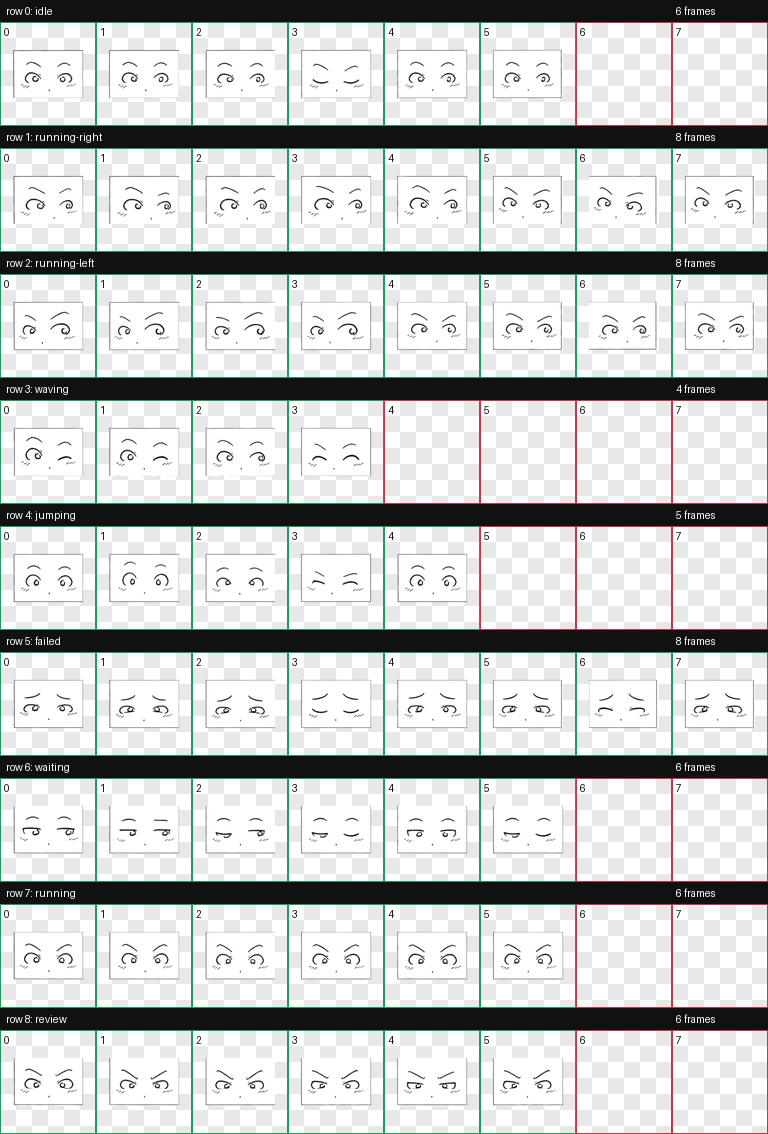
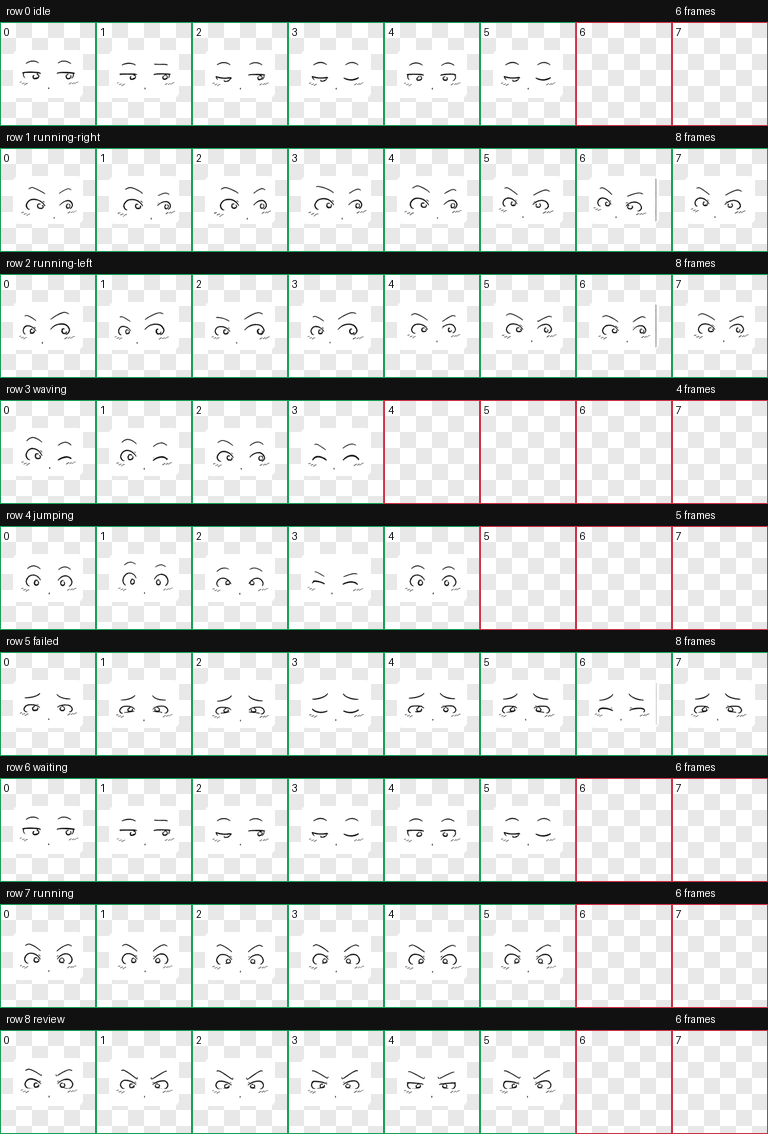
Update puchi dv pet assets

diff --git a/pet-runs/puchi-dv/build_puchi_dv_pet.py b/pet-runs/puchi-dv/build_puchi_dv_pet.py
@@ -1,6 +1,8 @@
 from pathlib import Path
-from PIL import Image
+from PIL import Image, ImageDraw
 import json
+import subprocess
+import sys
 
 
 SRC = Path("/Users/hideki/Documents/kiro/webp/puchi-dv.png")
@@ -8,26 +10,31 @@ RUN_DIR = Path("/Users/hideki/Documents/develop/codex-tools/pet-runs/puchi-dv")
 FINAL_DIR = RUN_DIR / "final"
 QA_DIR = RUN_DIR / "qa"
 PET_DIR = Path.home() / ".codex" / "pets" / "puchi-dv"
+VALIDATOR = Path.home() / ".codex" / "skills" / "hatch-pet" / "scripts" / "validate_atlas.py"
 
 CELL_W, CELL_H = 192, 208
 ATLAS_W, ATLAS_H = CELL_W * 8, CELL_H * 9
 
-# Source sheet geometry. The source is a contact-sheet-style drawing; the
-# rectangular frame itself is the pet body.
+# Source sheet geometry. The source is a contact-sheet-style drawing. The
+# extracted expression panel becomes the pet body.
 FRAME_W, FRAME_H = 140, 96
+CORNER_RADIUS = 11
 XS = [169, 314, 459, 606, 751, 897, 1041, 1185]
 YS = [42, 165, 289, 411, 534, 656, 779, 900, 1023]
 
 ROWS = [
-    ("idle", [0, 1, 2, 3, 4, 5]),
-    ("running-right", [0, 1, 2, 3, 4, 5, 6, 5]),
-    ("running-left", [0, 1, 2, 3, 4, 5, 6, 5]),
-    ("waving", [0, 1, 2, 3]),
-    ("jumping", [0, 1, 2, 3, 0]),
-    ("failed", [0, 1, 2, 3, 4, 5, 6, 5]),
-    ("waiting", [0, 1, 2, 3, 4, 3]),
-    ("running", [0, 1, 2, 3, 4, 3]),
-    ("review", [0, 1, 2, 3, 4, 3]),
+    # Idle intentionally reuses the waiting row for a slightly bored look.
+    ("idle", 6, [0, 1, 2, 3, 4, 3]),
+    ("running-right", 1, [0, 1, 2, 3, 4, 5, 6, 5]),
+    ("running-left", 2, [0, 1, 2, 3, 4, 5, 6, 5]),
+    ("waving", 3, [0, 1, 2, 3]),
+    # The app's hover uses the jumping row; keep the surprised hover look in
+    # the five contract-valid cells and leave the remaining cells transparent.
+    ("jumping", 4, [0, 1, 2, 3, 0]),
+    ("failed", 5, [0, 1, 2, 3, 4, 5, 6, 5]),
+    ("waiting", 6, [0, 1, 2, 3, 4, 3]),
+    ("running", 7, [0, 1, 2, 3, 4, 3]),
+    ("review", 8, [0, 1, 2, 3, 4, 3]),
 ]
 
 
@@ -37,17 +44,107 @@ def is_checker_or_near_white(r, g, b):
     return r >= 225 and g >= 225 and b >= 225 and max(r, g, b) - min(r, g, b) <= 8
 
 
+def is_expression_line(r, g, b):
+    # Preserve the original hand-drawn line tone, including soft gray strokes.
+    return max(r, g, b) < 225
+
+
+def is_old_frame_border(xx, yy):
+    return xx <= 4 or yy <= 4 or xx >= FRAME_W - 5 or yy >= FRAME_H - 5
+
+
 def clean_frame(src, x, y):
-    crop = src.crop((x, y, x + FRAME_W, y + FRAME_H)).convert("RGBA")
-    px = crop.load()
+    crop = src.crop((x, y, x + FRAME_W, y + FRAME_H)).convert("RGB")
+    frame = Image.new("RGBA", (FRAME_W, FRAME_H), (0, 0, 0, 0))
+    mask = Image.new("L", (FRAME_W, FRAME_H), 0)
+    mask_draw = ImageDraw.Draw(mask)
+    mask_draw.rounded_rectangle(
+        (0, 0, FRAME_W - 1, FRAME_H - 1),
+        radius=CORNER_RADIUS,
+        fill=255,
+    )
+
+    # White rounded rectangle body, with no black outline.
+    body = Image.new("RGBA", (FRAME_W, FRAME_H), (255, 255, 255, 255))
+    frame.alpha_composite(Image.composite(body, frame, mask))
+
+    src_px = crop.load()
+    out_px = frame.load()
+    mask_px = mask.load()
     for yy in range(FRAME_H):
         for xx in range(FRAME_W):
-            r, g, b, a = px[xx, yy]
-            if is_checker_or_near_white(r, g, b):
-                px[xx, yy] = (255, 255, 255, 255)
-            else:
-                px[xx, yy] = (r, g, b, 255)
-    return crop
+            if not mask_px[xx, yy] or is_old_frame_border(xx, yy):
+                continue
+            r, g, b = src_px[xx, yy]
+            if is_expression_line(r, g, b) and not is_checker_or_near_white(r, g, b):
+                out_px[xx, yy] = (r, g, b, 255)
+    return frame
+
+
+def checker(size, square=16):
+    image = Image.new("RGB", size, "#ffffff")
+    draw = ImageDraw.Draw(image)
+    for y in range(0, size[1], square):
+        for x in range(0, size[0], square):
+            if (x // square + y // square) % 2:
+                draw.rectangle((x, y, x + square - 1, y + square - 1), fill="#e8e8e8")
+    return image
+
+
+def write_contact_sheet(atlas, output, *, scale=0.5, hover_label=False):
+    label_h = 22
+    cell_w = max(1, round(CELL_W * scale))
+    cell_h = max(1, round(CELL_H * scale))
+    width = 8 * cell_w
+    height = len(ROWS) * (cell_h + label_h)
+    sheet = Image.new("RGB", (width, height), "#f7f7f7")
+    draw = ImageDraw.Draw(sheet)
+
+    for row_i, (state, _source_row, source_indices) in enumerate(ROWS):
+        used_count = len(source_indices)
+        y = row_i * (cell_h + label_h)
+        label = f"{state} / hover" if hover_label and state == "jumping" else state
+        draw.rectangle((0, y, width, y + label_h - 1), fill="#111111")
+        draw.text((6, y + 5), f"row {row_i} {label}", fill="#ffffff")
+        draw.text((width - 92, y + 5), f"{used_count} frames", fill="#ffffff")
+
+        for col_i in range(8):
+            cell = atlas.crop(
+                (
+                    col_i * CELL_W,
+                    row_i * CELL_H,
+                    (col_i + 1) * CELL_W,
+                    (row_i + 1) * CELL_H,
+                )
+            ).resize((cell_w, cell_h), Image.Resampling.LANCZOS)
+            bg = checker((cell_w, cell_h))
+            bg.paste(cell, (0, 0), cell)
+            x = col_i * cell_w
+            sheet.paste(bg, (x, y + label_h))
+            outline = "#18a058" if col_i < used_count else "#cc3344"
+            draw.rectangle((x, y + label_h, x + cell_w - 1, y + label_h + cell_h - 1), outline=outline)
+            draw.text((x + 4, y + label_h + 4), str(col_i), fill="#111111")
+
+    sheet.save(output)
+
+
+def validate(spritesheet_webp):
+    validation_json = FINAL_DIR / "validation.json"
+    if not VALIDATOR.exists():
+        result = {
+            "ok": False,
+            "file": str(spritesheet_webp),
+            "errors": [f"validator not found: {VALIDATOR}"],
+            "warnings": [],
+        }
+        validation_json.write_text(json.dumps(result, indent=2) + "\n")
+        return result
+
+    subprocess.run(
+        [sys.executable, str(VALIDATOR), str(spritesheet_webp), "--json-out", str(validation_json)],
+        check=False,
+    )
+    return json.loads(validation_json.read_text())
 
 
 def compose():
@@ -55,10 +152,14 @@ def compose():
     atlas = Image.new("RGBA", (ATLAS_W, ATLAS_H), (0, 0, 0, 0))
     frames = {}
 
-    for row_i, (state, source_indices) in enumerate(ROWS):
+    for row_i, (state, source_row, source_indices) in enumerate(ROWS):
         frames[state] = len(source_indices)
-        for col_i, source_col in enumerate(source_indices):
-            frame = clean_frame(src, XS[source_col], YS[row_i])
+        for col_i, source_ref in enumerate(source_indices):
+            if isinstance(source_ref, tuple):
+                frame_source_row, source_col = source_ref
+            else:
+                frame_source_row, source_col = source_row, source_ref
+            frame = clean_frame(src, XS[source_col], YS[frame_source_row])
             x = col_i * CELL_W + (CELL_W - FRAME_W) // 2
             y = row_i * CELL_H + (CELL_H - FRAME_H) // 2
             atlas.alpha_composite(frame, (x, y))
@@ -73,9 +174,12 @@ def compose():
     atlas.save(spritesheet_webp, lossless=True, quality=100, method=6)
     atlas.save(PET_DIR / "spritesheet.webp", lossless=True, quality=100, method=6)
 
+    write_contact_sheet(atlas, QA_DIR / "contact-sheet.png", scale=0.5)
+    write_contact_sheet(atlas, QA_DIR / "contact-sheet-hover.png", scale=0.604, hover_label=True)
+
     preview_dir = QA_DIR / "previews"
     preview_dir.mkdir(parents=True, exist_ok=True)
-    for row_i, (state, source_indices) in enumerate(ROWS):
+    for row_i, (state, source_row, source_indices) in enumerate(ROWS):
         gif_frames = []
         for col_i in range(len(source_indices)):
             cell = atlas.crop(
@@ -99,7 +203,7 @@ def compose():
     pet_json = {
         "id": "puchi-dv",
         "displayName": "puchi-dv",
-        "description": "A hand-drawn framed expression pet with white panel interiors and transparent outside space.",
+        "description": "A hand-drawn rounded expression panel pet with white interiors and transparent outside space.",
         "spritesheetPath": "spritesheet.webp",
     }
     (PET_DIR / "pet.json").write_text(json.dumps(pet_json, ensure_ascii=False, indent=2) + "\n")
@@ -112,11 +216,12 @@ def compose():
         "atlas_size": [ATLAS_W, ATLAS_H],
         "frame_size": [FRAME_W, FRAME_H],
         "states": frames,
-        "notes": "Black frame is treated as the pet body; pale checkerboard inside each frame is normalized to white; outside each frame is transparent. Hand-drawn line tone is preserved.",
+        "notes": "The old black frame is removed. A white rounded rectangle is treated as the pet body; outside the rounded panel is transparent. Idle reuses the bored waiting row. The fifth row keeps the surprised hover frames in the five contract-valid jumping cells. Hand-drawn expression line tone is preserved.",
     }
     (RUN_DIR / "pet_request.json").write_text(json.dumps(request, ensure_ascii=False, indent=2) + "\n")
+    validation = validate(spritesheet_webp)
     summary = {
-        "ok": True,
+        "ok": bool(validation.get("ok")),
         "run_dir": str(RUN_DIR),
         "spritesheet": str(spritesheet_webp),
         "contact_sheet": str(QA_DIR / "contact-sheet.png"),
